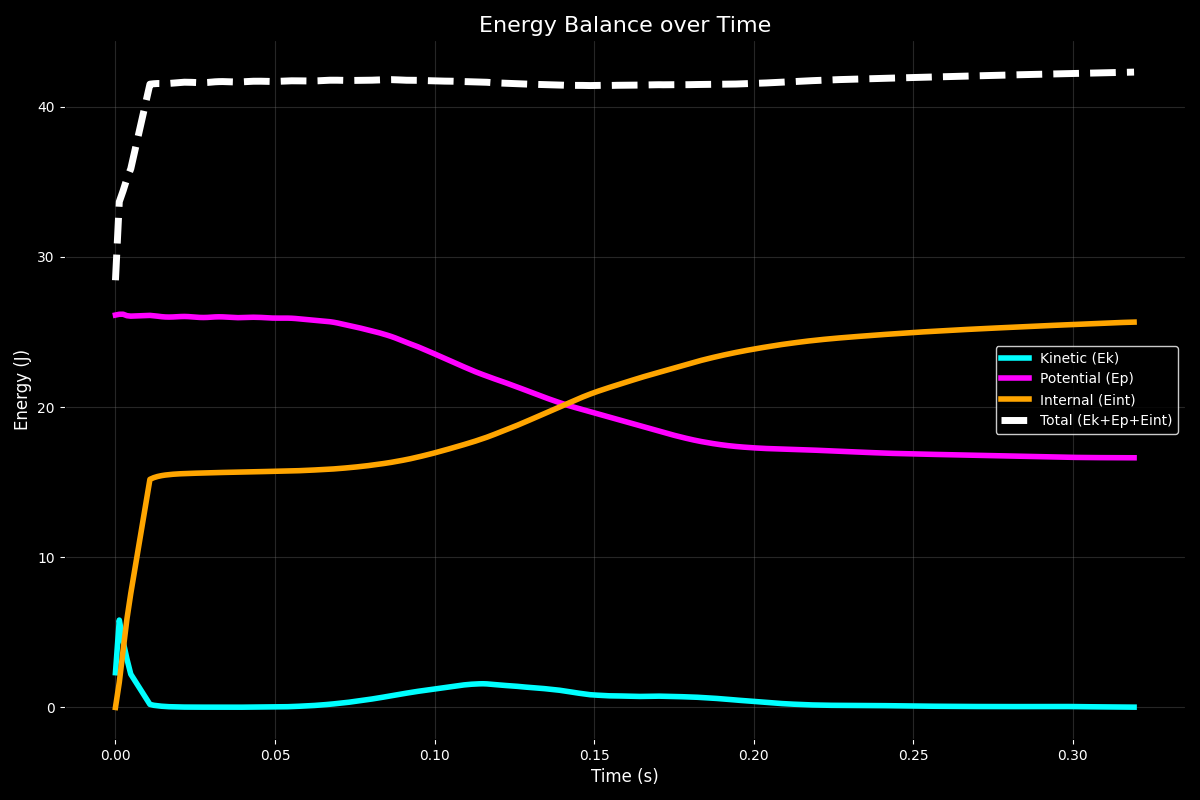
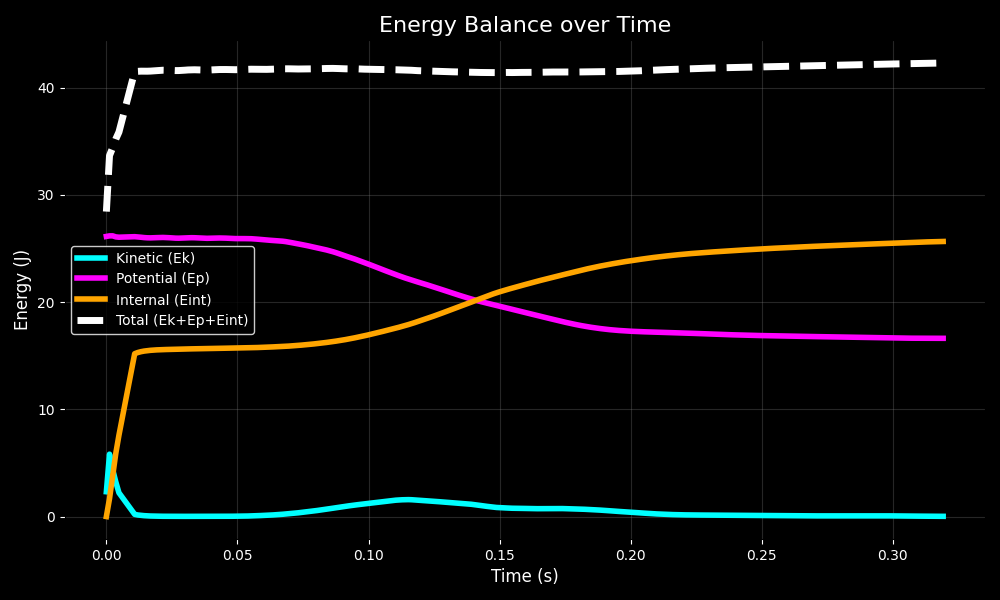
Fix: Standardized all analysis plots to 10x6 dimensions

diff --git a/src/analyze_energy.py b/src/analyze_energy.py
@@ -68,7 +68,7 @@ def main():
     if not os.path.exists('output_analysis'):
         os.makedirs('output_analysis')
 
-    plt.figure(figsize=(12, 8), facecolor='black')
+    plt.figure(figsize=(10, 6), facecolor='black')
     ax = plt.gca()
     ax.set_facecolor('black')
     
